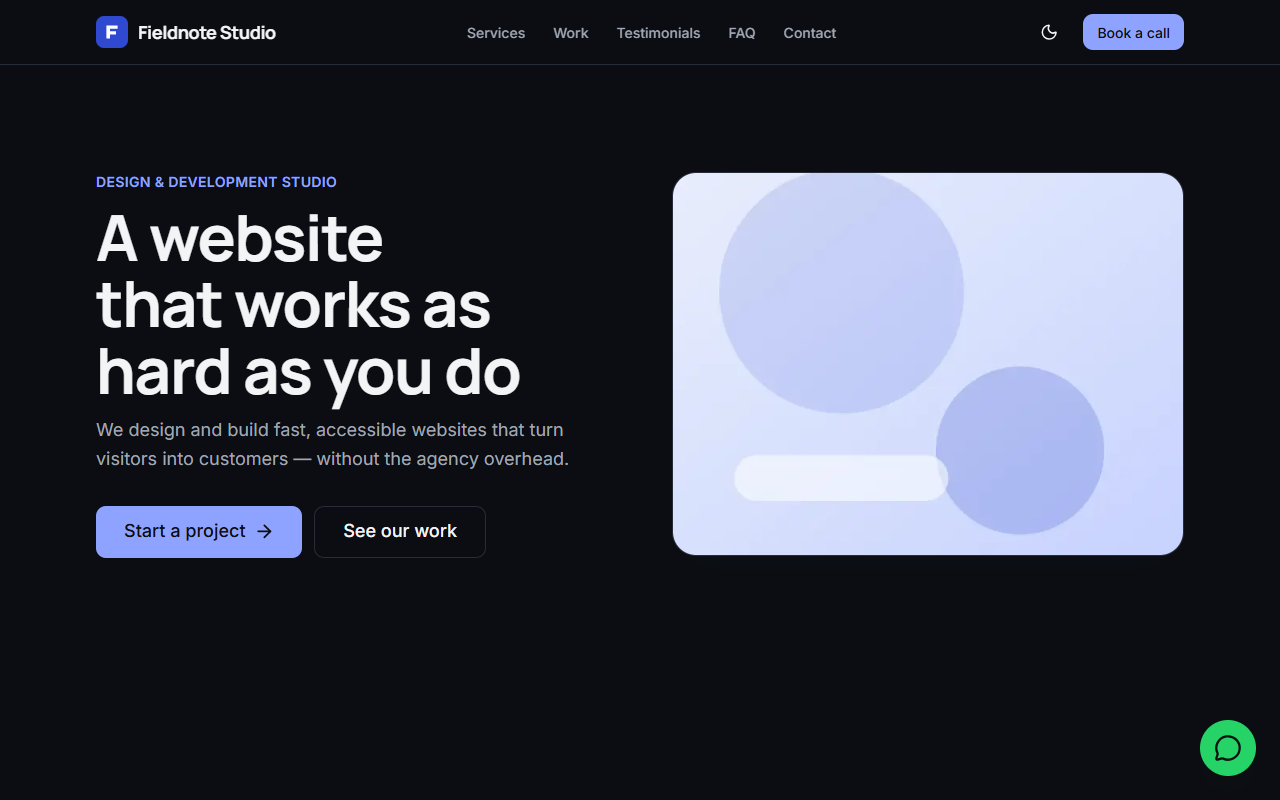
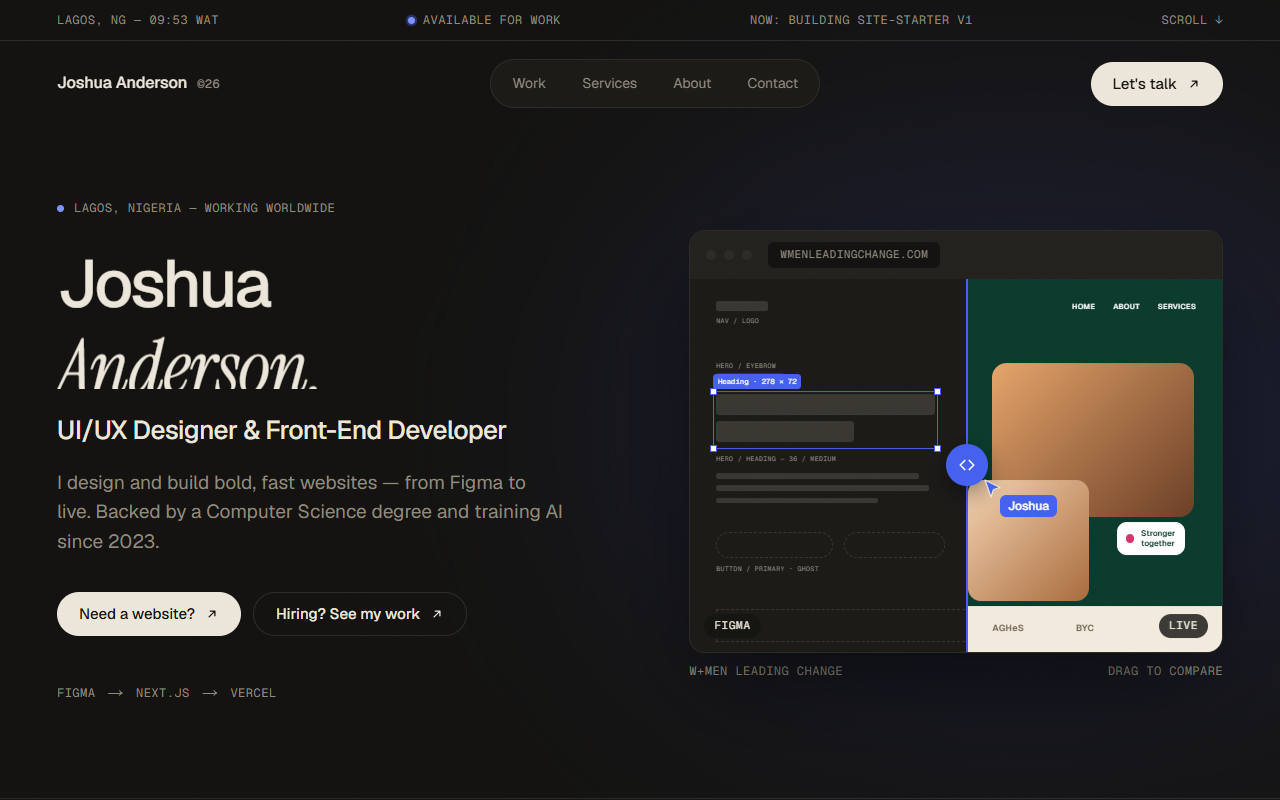
Polish: a11y fixes, generated share image, deploy-ready README
- Fix contrast failures (W+Men mock ink, portrait frame size, hero caption over glow)
- Sequential headings on /services; credentials strip is a focusable region
- Eager-load the first gallery flyer (it's the LCP image)
- Generate the Open Graph image from config + tokens; every page now keeps it
- Site URL comes from NEXT_PUBLIC_SITE_URL or Vercel's production URL
- Rewrite README for the portfolio, retake screenshot, rename package

diff --git a/src/app/opengraph-image.tsx b/src/app/opengraph-image.tsx
@@ -1,0 +1,54 @@
+import { readFile } from "node:fs/promises";
+import { join } from "node:path";
+import { ImageResponse } from "next/og";
+import { siteConfig } from "@/config/site.config";
+
+// Social share card, generated at build time. Every route inherits it.
+export const alt = siteConfig.seo.defaultTitle;
+export const size = { width: 1200, height: 630 };
+export const contentType = "image/png";
+
+/** Reads colour tokens straight from tokens.css so the card stays on-brand. */
+async function tokenColors() {
+  "use cache";
+  const css = await readFile(join(process.cwd(), "src/styles/tokens.css"), "utf8");
+  const token = (name: string) => css.match(new RegExp(`--color-${name}:\\s*([^;]+);`))?.[1].trim();
+  return {
+    background: token("background"),
+    foreground: token("foreground"),
+    muted: token("muted"),
+    border: token("border"),
+    accent: token("primary-text"),
+  };
+}
+
+export default async function OpengraphImage() {
+  const color = await tokenColors();
+  const { person } = siteConfig;
+
+  return new ImageResponse(
+    <div
+      style={{
+        width: "100%",
+        height: "100%",
+        display: "flex",
+        flexDirection: "column",
+        justifyContent: "space-between",
+        padding: 80,
+        background: color.background,
+        color: color.foreground,
+        border: `2px solid ${color.border}`,
+      }}
+    >
+      <div style={{ display: "flex", alignItems: "center", gap: 16, fontSize: 26, color: color.muted, letterSpacing: 3 }}>
+        <div style={{ width: 14, height: 14, borderRadius: 999, background: color.accent }} />
+        {person.location.toUpperCase()}
+      </div>
+      <div style={{ display: "flex", flexDirection: "column", gap: 24 }}>
+        <div style={{ fontSize: 112, fontWeight: 600, letterSpacing: -4, lineHeight: 1 }}>{person.name}</div>
+        <div style={{ fontSize: 40, color: color.accent }}>{person.role}</div>
+      </div>
+    </div>,
+    size,
+  );
+}

diff --git a/src/components/sections/CredentialStrip.tsx b/src/components/sections/CredentialStrip.tsx
@@ -7,11 +7,17 @@ type CredentialStripProps = { content?: SiteConfig["home"]["credentials"] };
 export function CredentialStrip({ content = siteConfig.home.credentials }: CredentialStripProps) {
   return (
     <div className="border-y border-border">
-      <Container className="flex items-center gap-10 overflow-x-auto py-[26px] [scrollbar-width:none] [&::-webkit-scrollbar]:hidden">
-        <MonoLabel as="p" className="whitespace-nowrap">
+      {/* Focusable so keyboard users can scroll it when it overflows. */}
+      <Container
+        role="region"
+        aria-labelledby="credentials-label"
+        tabIndex={0}
+        className="flex items-center gap-10 overflow-x-auto py-[26px] [scrollbar-width:none] [&::-webkit-scrollbar]:hidden"
+      >
+        <MonoLabel as="p" id="credentials-label" className="whitespace-nowrap">
           {content.label}
         </MonoLabel>
-        <ul className="contents">
+        <ul className="flex items-center gap-10">
           {content.items.map((item) => (
             <li key={item} className="text-ui whitespace-nowrap">
               {item}

diff --git a/src/config/site.config.ts b/src/config/site.config.ts
@@ -250,7 +250,7 @@ export interface SiteConfig {
     titleTemplate: string;
     defaultTitle: string;
     description: string;
-    ogImage: string;
+    /** The share image is generated from `person` by src/app/opengraph-image.tsx. */
     siteUrl: string;
     locale: string;
   };
@@ -818,8 +818,12 @@ export const siteConfig: SiteConfig = {
     defaultTitle: "Joshua Anderson — UI/UX Designer & Front-End Developer",
     description:
       "Joshua Anderson is a UI/UX designer and front-end developer in Lagos who designs and builds bold, fast websites — from Figma to live.",
-    ogImage: "/images/og.jpg",
-    siteUrl: "http://localhost:3000", // [Set to the live domain once deployed]
+    // Set NEXT_PUBLIC_SITE_URL for a custom domain; otherwise Vercel's production URL is used.
+    siteUrl:
+      process.env.NEXT_PUBLIC_SITE_URL ??
+      (process.env.VERCEL_PROJECT_PRODUCTION_URL
+        ? `https://${process.env.VERCEL_PROJECT_PRODUCTION_URL}`
+        : "http://localhost:3000"),
     locale: "en_NG",
   },
 };

diff --git a/src/components/sections/ServiceList.tsx b/src/components/sections/ServiceList.tsx
@@ -23,6 +23,8 @@ export function ServiceList({
   as: Title = "h2",
   className,
 }: ServiceListProps) {
+  // Keep heading levels sequential when the intro is the page's h1.
+  const ItemTitle = Title === "h1" ? "h2" : "h3";
   return (
     <section id={id} className={cn("scroll-mt-24 bg-surface pt-section pb-section-end", className)}>
       <Container className="grid items-start gap-12 desktop:grid-cols-[420px_minmax(0,1fr)] desktop:gap-24">
@@ -45,7 +47,7 @@ export function ServiceList({
             >
               <MonoLabel className="text-primary-text">({pad(index + 1)})</MonoLabel>
               <div>
-                <h3 className="mb-2 text-title font-medium tracking-snug">{service.title}</h3>
+                <ItemTitle className="mb-2 text-title font-medium tracking-snug">{service.title}</ItemTitle>
                 <p className="text-muted">{service.text}</p>
               </div>
               <MonoLabel className="tablet:text-right">{service.tags}</MonoLabel>

diff --git a/src/app/layout.tsx b/src/app/layout.tsx
@@ -1,5 +1,6 @@
 import type { Metadata } from "next";
 import { siteConfig } from "@/config/site.config";
+import { baseOpenGraph } from "@/lib/metadata";
 import { fontVariables } from "@/styles/fonts";
 import { Providers } from "./providers";
 import "@/styles/globals.css";
@@ -13,20 +14,11 @@ export const metadata: Metadata = {
   applicationName: brand.name,
   alternates: { canonical: "/" },
   icons: { icon: brand.favicon },
-  openGraph: {
-    type: "website",
-    url: "/",
-    siteName: brand.name,
-    title: seo.defaultTitle,
-    description: seo.description,
-    locale: seo.locale,
-    images: [{ url: seo.ogImage, width: 1200, height: 630, alt: brand.name }],
-  },
+  openGraph: { ...baseOpenGraph, url: "/", title: seo.defaultTitle, description: seo.description },
   twitter: {
     card: "summary_large_image",
     title: seo.defaultTitle,
     description: seo.description,
-    images: [seo.ogImage],
   },
   robots: { index: true, follow: true },
 };

diff --git a/src/components/sections/Hero.tsx b/src/components/sections/Hero.tsx
@@ -13,7 +13,7 @@ export function Hero({ content = siteConfig.hero, person = siteConfig.person }: 
     <section id="hero" className="relative">
       <div
         aria-hidden="true"
-        className="pointer-events-none absolute -right-[180px] bottom-10 size-[460px] rounded-full bg-primary opacity-16 blur-[140px] desktop:top-10 desktop:-right-[120px] desktop:bottom-auto desktop:h-[520px] desktop:w-[760px] desktop:opacity-20"
+        className="pointer-events-none absolute -right-[180px] bottom-10 size-[460px] rounded-full bg-primary opacity-16 blur-[140px] desktop:top-10 desktop:-right-[120px] desktop:bottom-auto desktop:h-[520px] desktop:w-[760px] desktop:opacity-16"
       />
       <Container className="relative grid items-center gap-12 pt-12 pb-18 desktop:grid-cols-[minmax(0,1.08fr)_minmax(0,1fr)] desktop:gap-14 desktop:pt-18 desktop:pb-24">
         <div>

diff --git a/src/app/graphic-design/page.tsx b/src/app/graphic-design/page.tsx
@@ -2,6 +2,7 @@ import type { Metadata } from "next";
 import { ContactBand, Footer, GalleryGrid, Navbar, StatusBar } from "@/components/sections";
 import { Container, MonoLabel } from "@/components/ui";
 import { siteConfig } from "@/config/site.config";
+import { baseOpenGraph } from "@/lib/metadata";
 import { pad } from "@/lib/projects";
 
 const { graphicDesign, graphics } = siteConfig;
@@ -10,7 +11,7 @@ export const metadata: Metadata = {
   title: graphicDesign.title,
   description: graphicDesign.description,
   alternates: { canonical: "/graphic-design" },
-  openGraph: { url: "/graphic-design", title: graphicDesign.title, description: graphicDesign.description },
+  openGraph: { ...baseOpenGraph, url: "/graphic-design", title: graphicDesign.title, description: graphicDesign.description },
 };
 
 export default function GraphicDesignPage() {

diff --git a/src/app/work/[slug]/page.tsx b/src/app/work/[slug]/page.tsx
@@ -5,6 +5,7 @@ import { ContactBand, Footer, Navbar, StatusBar } from "@/components/sections";
 import { ClientCredit } from "@/components/sections/case-study";
 import { Arrow, Container, MonoLabel, ProjectCard } from "@/components/ui";
 import { siteConfig, type Project } from "@/config/site.config";
+import { baseOpenGraph } from "@/lib/metadata";
 import { pad, projectLink } from "@/lib/projects";
 
 const { projects, caseStudy, ui } = siteConfig;
@@ -27,7 +28,7 @@ export async function generateMetadata({ params }: PageProps<"/work/[slug]">): P
     title: project.title,
     description: project.summary,
     alternates: { canonical: path },
-    openGraph: { url: path, title: project.title, description: project.summary },
+    openGraph: { ...baseOpenGraph, url: path, title: project.title, description: project.summary },
   };
 }
 

diff --git a/src/app/work/page.tsx b/src/app/work/page.tsx
@@ -2,6 +2,7 @@ import type { Metadata } from "next";
 import { ContactBand, Footer, Navbar, ProjectGrid, StatusBar } from "@/components/sections";
 import { Container, MonoLabel } from "@/components/ui";
 import { siteConfig } from "@/config/site.config";
+import { baseOpenGraph } from "@/lib/metadata";
 import { pad } from "@/lib/projects";
 
 const { work, projects } = siteConfig;
@@ -10,7 +11,7 @@ export const metadata: Metadata = {
   title: work.title,
   description: work.description,
   alternates: { canonical: "/work" },
-  openGraph: { url: "/work", title: work.title, description: work.description },
+  openGraph: { ...baseOpenGraph, url: "/work", title: work.title, description: work.description },
 };
 
 export default function WorkPage() {

diff --git a/src/app/services/page.tsx b/src/app/services/page.tsx
@@ -1,6 +1,7 @@
 import type { Metadata } from "next";
 import { Footer, Navbar, ProcessSteps, QuoteBand, ServiceList, StatusBar } from "@/components/sections";
 import { siteConfig } from "@/config/site.config";
+import { baseOpenGraph } from "@/lib/metadata";
 
 const { servicesPage } = siteConfig;
 
@@ -8,7 +9,7 @@ export const metadata: Metadata = {
   title: servicesPage.label,
   description: servicesPage.description,
   alternates: { canonical: "/services" },
-  openGraph: { url: "/services", title: servicesPage.label, description: servicesPage.description },
+  openGraph: { ...baseOpenGraph, url: "/services", title: servicesPage.label, description: servicesPage.description },
 };
 
 export default function ServicesPage() {

diff --git a/src/app/about/page.tsx b/src/app/about/page.tsx
@@ -1,6 +1,7 @@
 import type { Metadata } from "next";
 import { AboutIntro, ContactBand, Footer, Navbar, SkillGroups, StatusBar, Timeline } from "@/components/sections";
 import { siteConfig } from "@/config/site.config";
+import { baseOpenGraph } from "@/lib/metadata";
 
 const { about, experience, education } = siteConfig;
 
@@ -8,7 +9,7 @@ export const metadata: Metadata = {
   title: about.title,
   description: about.description,
   alternates: { canonical: "/about" },
-  openGraph: { url: "/about", title: about.title, description: about.description },
+  openGraph: { ...baseOpenGraph, url: "/about", title: about.title, description: about.description },
 };
 
 const experienceItems = experience.map((job) => ({

diff --git a/src/components/ui/Portrait.tsx b/src/components/ui/Portrait.tsx
@@ -48,7 +48,7 @@ export function Portrait({ photo, initials, layerName, className }: PortraitProp
         aria-hidden="true"
         className="absolute -top-7 left-0 flex gap-3 rounded-xs bg-primary px-2 py-0.5 font-mono text-micro text-primary-foreground"
       >
-        {layerName} <b className="font-normal opacity-75">{`${FRAME.width} × ${FRAME.height}`}</b>
+        {layerName} <b className="font-normal">{`${FRAME.width} × ${FRAME.height}`}</b>
       </div>
       <div aria-hidden="true" className="absolute inset-y-0 -right-[26px] hidden w-px bg-primary tablet:block">
         <span className="absolute top-1/2 left-1.5 -translate-y-1/2 -rotate-90 font-mono text-micro text-primary-text">
